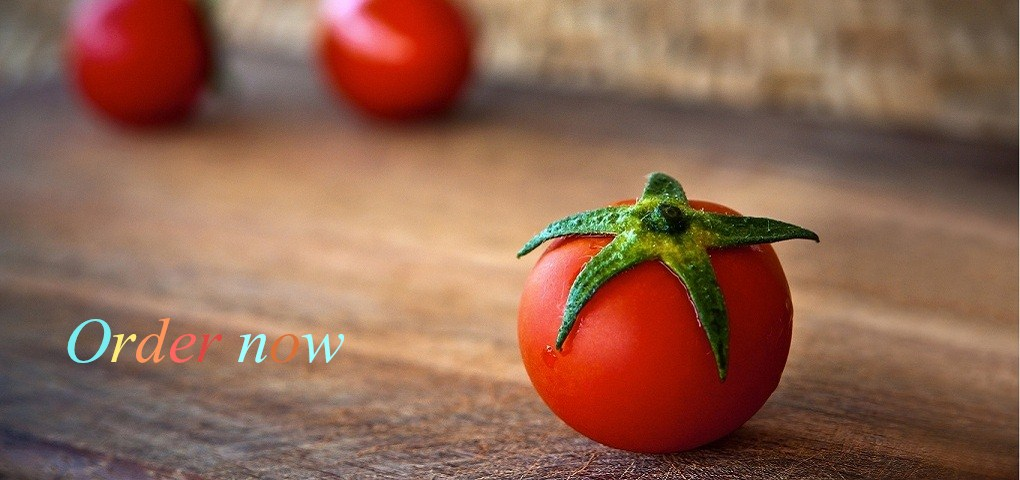
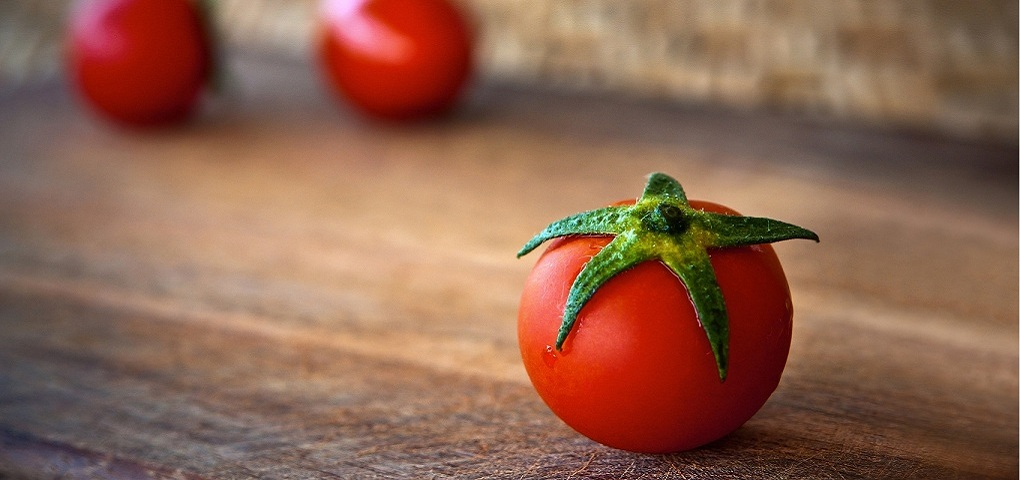
Change home page to make order more obvious

Changed region(s): [[0.0608, 0.6562, 0.3343, 0.7812]]

diff --git a/panda/templates/homepage/home.html b/panda/templates/homepage/home.html
@@ -108,13 +108,13 @@
 		<div class="slider">
 			<ul class="rslides" id="slider">
 				<li>
-                    <a href="{% url 'promotion' %}"> <img src="{% static 'home/images/slide-1.jpg' %}" alt="Panda  Annie"></a>
+                    <a href="{% url 'promotion' %}"> <img title="Click to order" src="{% static 'home/images/slide-1.jpg' %}" alt="Panda  Annie"></a>
 				</li>
 				<li>
-					<a href="{% url 'promotion' %}"> <img src="{% static 'home/images/slide-2.jpg' %}" alt="Panda  Annie"></a>
+					<a href="{% url 'promotion' %}"> <img title="Click to order" src="{% static 'home/images/slide-2.jpg' %}" alt="Panda  Annie"></a>
 				</li>
 				<li>
-					<a href="{% url 'promotion' %}"> <img src="{% static 'home/images/slide-3.jpg' %}" alt="Panda  Annie"></a>
+					<a href="{% url 'promotion' %}"> <img title="Click to order" src="{% static 'home/images/slide-3.jpg' %}" alt="Panda  Annie"></a>
 				</li>
 			</ul>
 		</div>
@@ -128,8 +128,6 @@
 	<!-- About -->
 	<div class="sl3waboutstia" id="sl3waboutstia">
 		<div class="container">
-			<h1>ABOUT US</h1>
-
 			<div class="sl3waboutstia-grids">
 				<div class="col-md-4 col-sm-4 sl3waboutstia-grid sl3waboutstia-grid-1">
 					<h3>Homemade Cuisine.</h3>
@@ -138,22 +136,23 @@
 				</div>
 
                 <div class="col-md-4 col-sm-4 sl3waboutstia-grid sl3waboutstia-grid-2">
-                   <h3>Our Specialization</h3>
                    <ul>
                         {% category_tree depth=2 as tree_categories %}
                         {% if tree_categories %}
                             {% for tree_category, info in tree_categories %}
-                                <li class="agilecake"><a href="{{ tree_category.get_absolute_url }}">{{ tree_category.name }}</a></li>
+                       <li class="agilecake"><a href="{{ tree_category.get_absolute_url }}"><h3>{{ tree_category.name }}</h3></a></li>
                             {% endfor %}
                         {% endif %}
                    </ul>
                 </div>
 
 				<div class="col-md-4 col-sm-4 sl3waboutstia-grid sl3waboutstia-grid-3">
-					<img src="{% static 'home/images/about.jpg' %}" alt="Panda Annie">
+					<img title="Click to order" src="{% static 'home/images/about.jpg' %}" alt="Panda Annie">
 				</div>
 				<div class="clearfix"></div>
 			</div>
+
+
 
 		</div>
 	</div>
@@ -162,7 +161,7 @@
 
 	<!-- Desserts -->
 	<div class="wthreedesserts" id="wthreedesserts">
-		<h3>POPULAR DISH</h3>
+        <a href="{% url 'promotion' %}"><i><h3>PLACE ORDER</h3></i></a>\
         <div class="container-fluid page">
             <div class="page_inner">
                 <div class="content">

diff --git a/panda/static/home/css/style.css b/panda/static/home/css/style.css
@@ -324,7 +324,7 @@ ul.callbacks_tabs {
 /*-- Desserts --*/
 
 .wthreedesserts {
-	padding-top: 100px;
+	padding-top: 30px;
 	background-color: #272727;
 }
 
@@ -1179,7 +1179,7 @@ textarea.message {
 		padding: 100px 0;
 	}
 	.wthreedesserts {
-		padding-top: 75px;
+		padding-top: 25px;
 	}
 	.pic-caption {
 		padding: 5em 1em 0;
@@ -1311,7 +1311,7 @@ textarea.message {
 		padding: 75px 0;
 	}
 	.wthreedesserts {
-		padding-top: 50px
+		padding-top: 20px
 	}
 	.sl3waboutstia h1, .w3lsstatsaits h2, .wthreedesserts h3, .portfolio h3, .chefw3agile h3, .agileinfofeedback h3, .aitscontactw3l h3 {
 		font-size: 35px;
